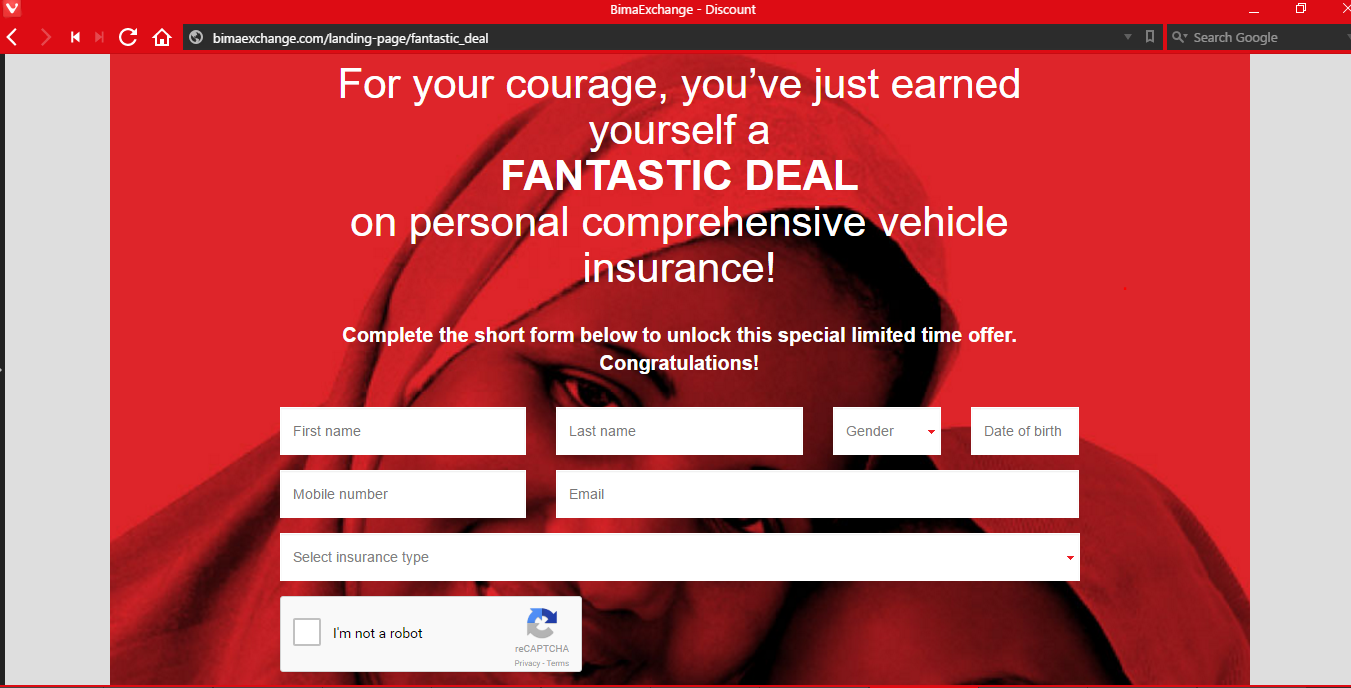
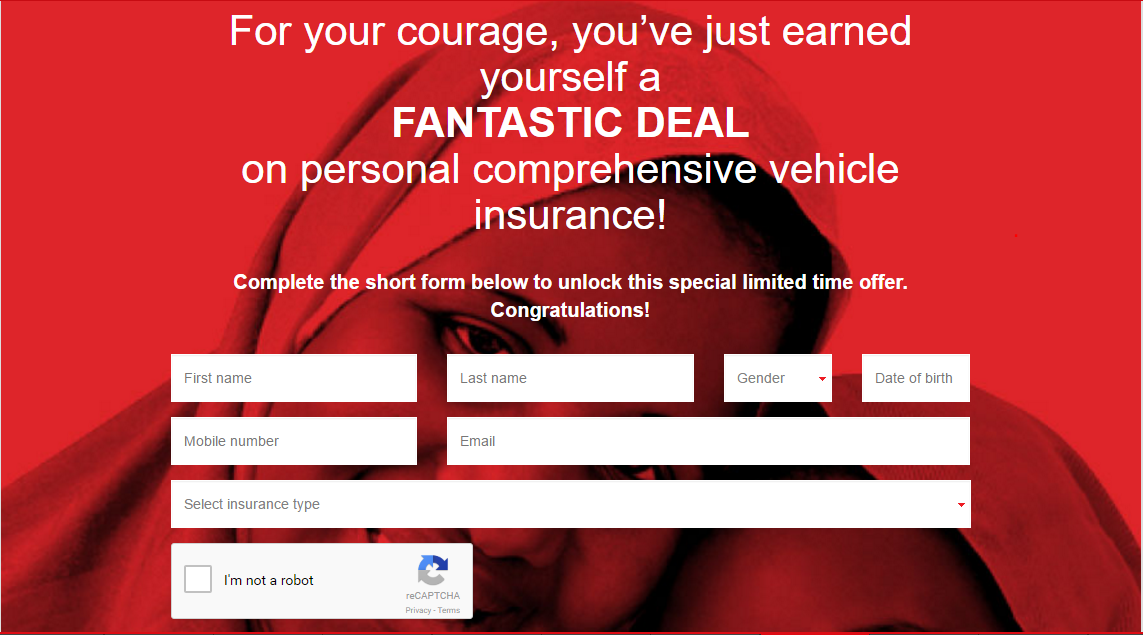
added CDN version of the images

diff --git a/VehicleInsurance/index.html b/VehicleInsurance/index.html
@@ -17,50 +17,50 @@
 			<ul class="cd-images-list">
 				<li class="is-selected">
 					<a href="#0">
-						<h2></h2>
+						<h2 style="color:black;">Step One</h2>
 					</a>
 				</li>
 
 				<li>
 					<a href="#0">
-						<h2>Project Two</h2>
+						<h2 style="color:black;">Project Two</h2>
 					</a>
 				</li>
 
 				<li>
 					<a href="#0">
-						<h2>Projects Three</h2>
+						<h2 style="color:black;">Projects Three</h2>
 					</a>
 				</li>
 
 				<li>
 					<a href="#0">
-						<h2>Project Four</h2>
+						<h2 style="color:black;">Project Four</h2>
 					</a>
 				</li>
 				<li>
 					<a href="#0">
-						<h2>Project 5</h2>
+						<h2 style="color:black;">Project 5</h2>
 					</a>
 				</li>
 				<li>
 					<a href="#0">
-						<h2>Project 5</h2>
+						<h2 style="color:black;">Project 5</h2>
 					</a>
 				</li>
 				<li>
 					<a href="#0">
-						<h2>Project 5</h2>
+						<h2 style="color:black;">Project 5</h2>
 					</a>
 				</li>
 				<li>
 					<a href="#0">
-						<h2>Project 5</h2>
+						<h2 style="color:black;">Project 5</h2>
 					</a>
 				</li>
 				<li>
 					<a href="#0">
-						<h2>Project 5</h2>
+						<h2 style="color:black;">Project 5</h2>
 					</a>
 				</li>
 			</ul> <!-- .cd-images-list -->

diff --git a/VehicleInsurance/css/style.css b/VehicleInsurance/css/style.css
@@ -74,7 +74,7 @@ Images block
 }
 .cd-images-list > li {
   height: 250px;
-  background: #979c9c url(https://res.cloudinary.com/e-bima/image/upload/v1468489373/landingPage1_exx4vu.png) no-repeat center center;
+  background: #979c9c url(https://res.cloudinary.com/e-bima/image/upload/v1468490357/landingPage1_fboqga.png) no-repeat center center;
   background-size: cover;
 }
 .cd-images-list > li:nth-of-type(2) {
